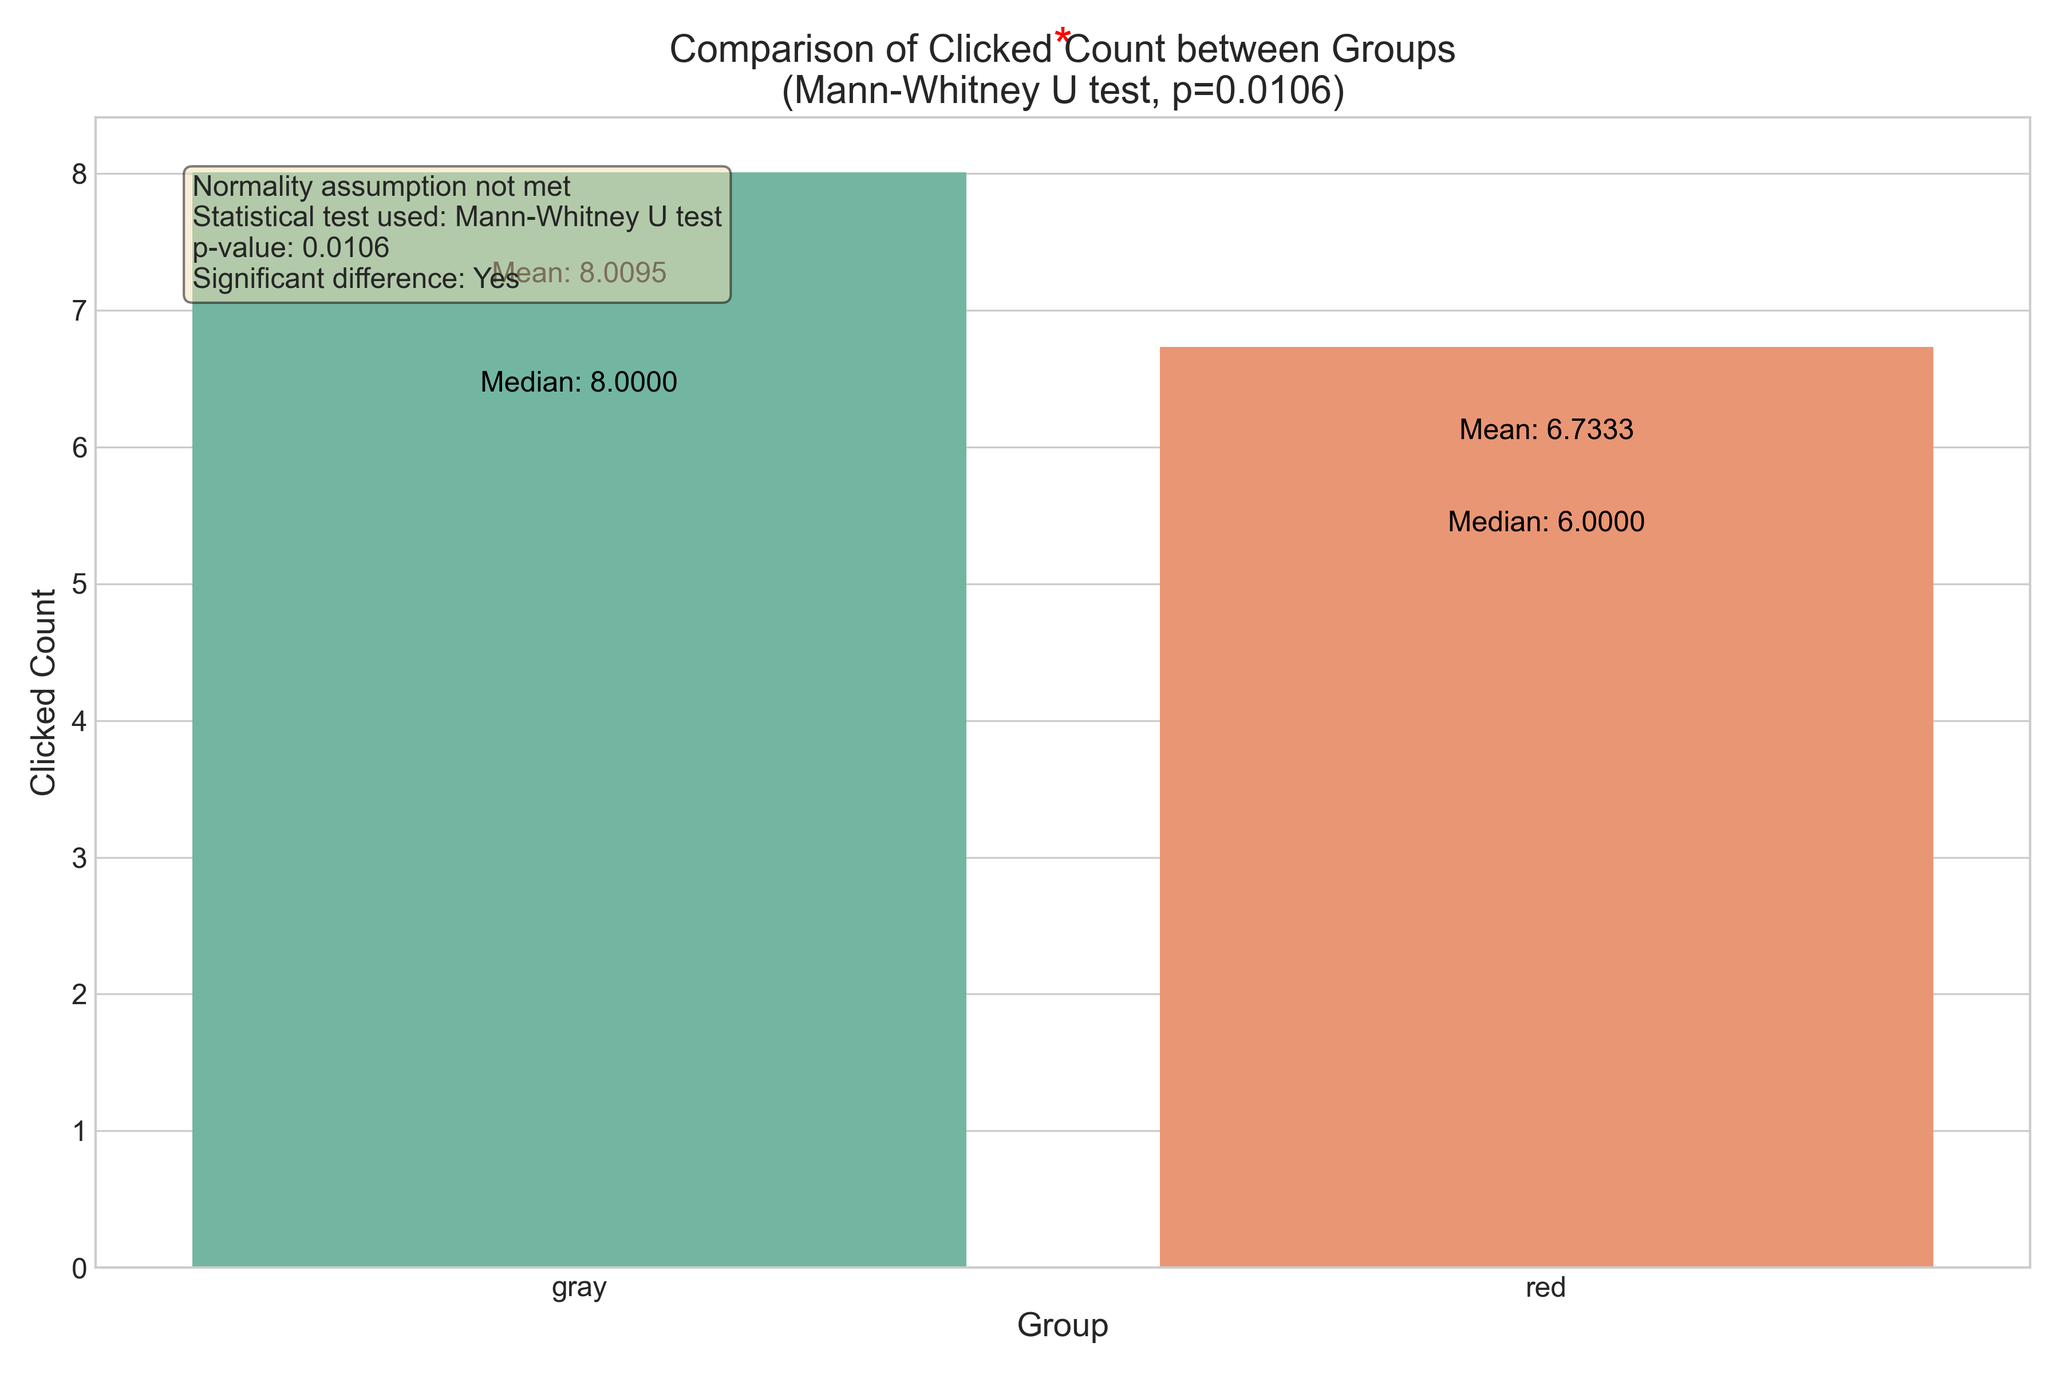
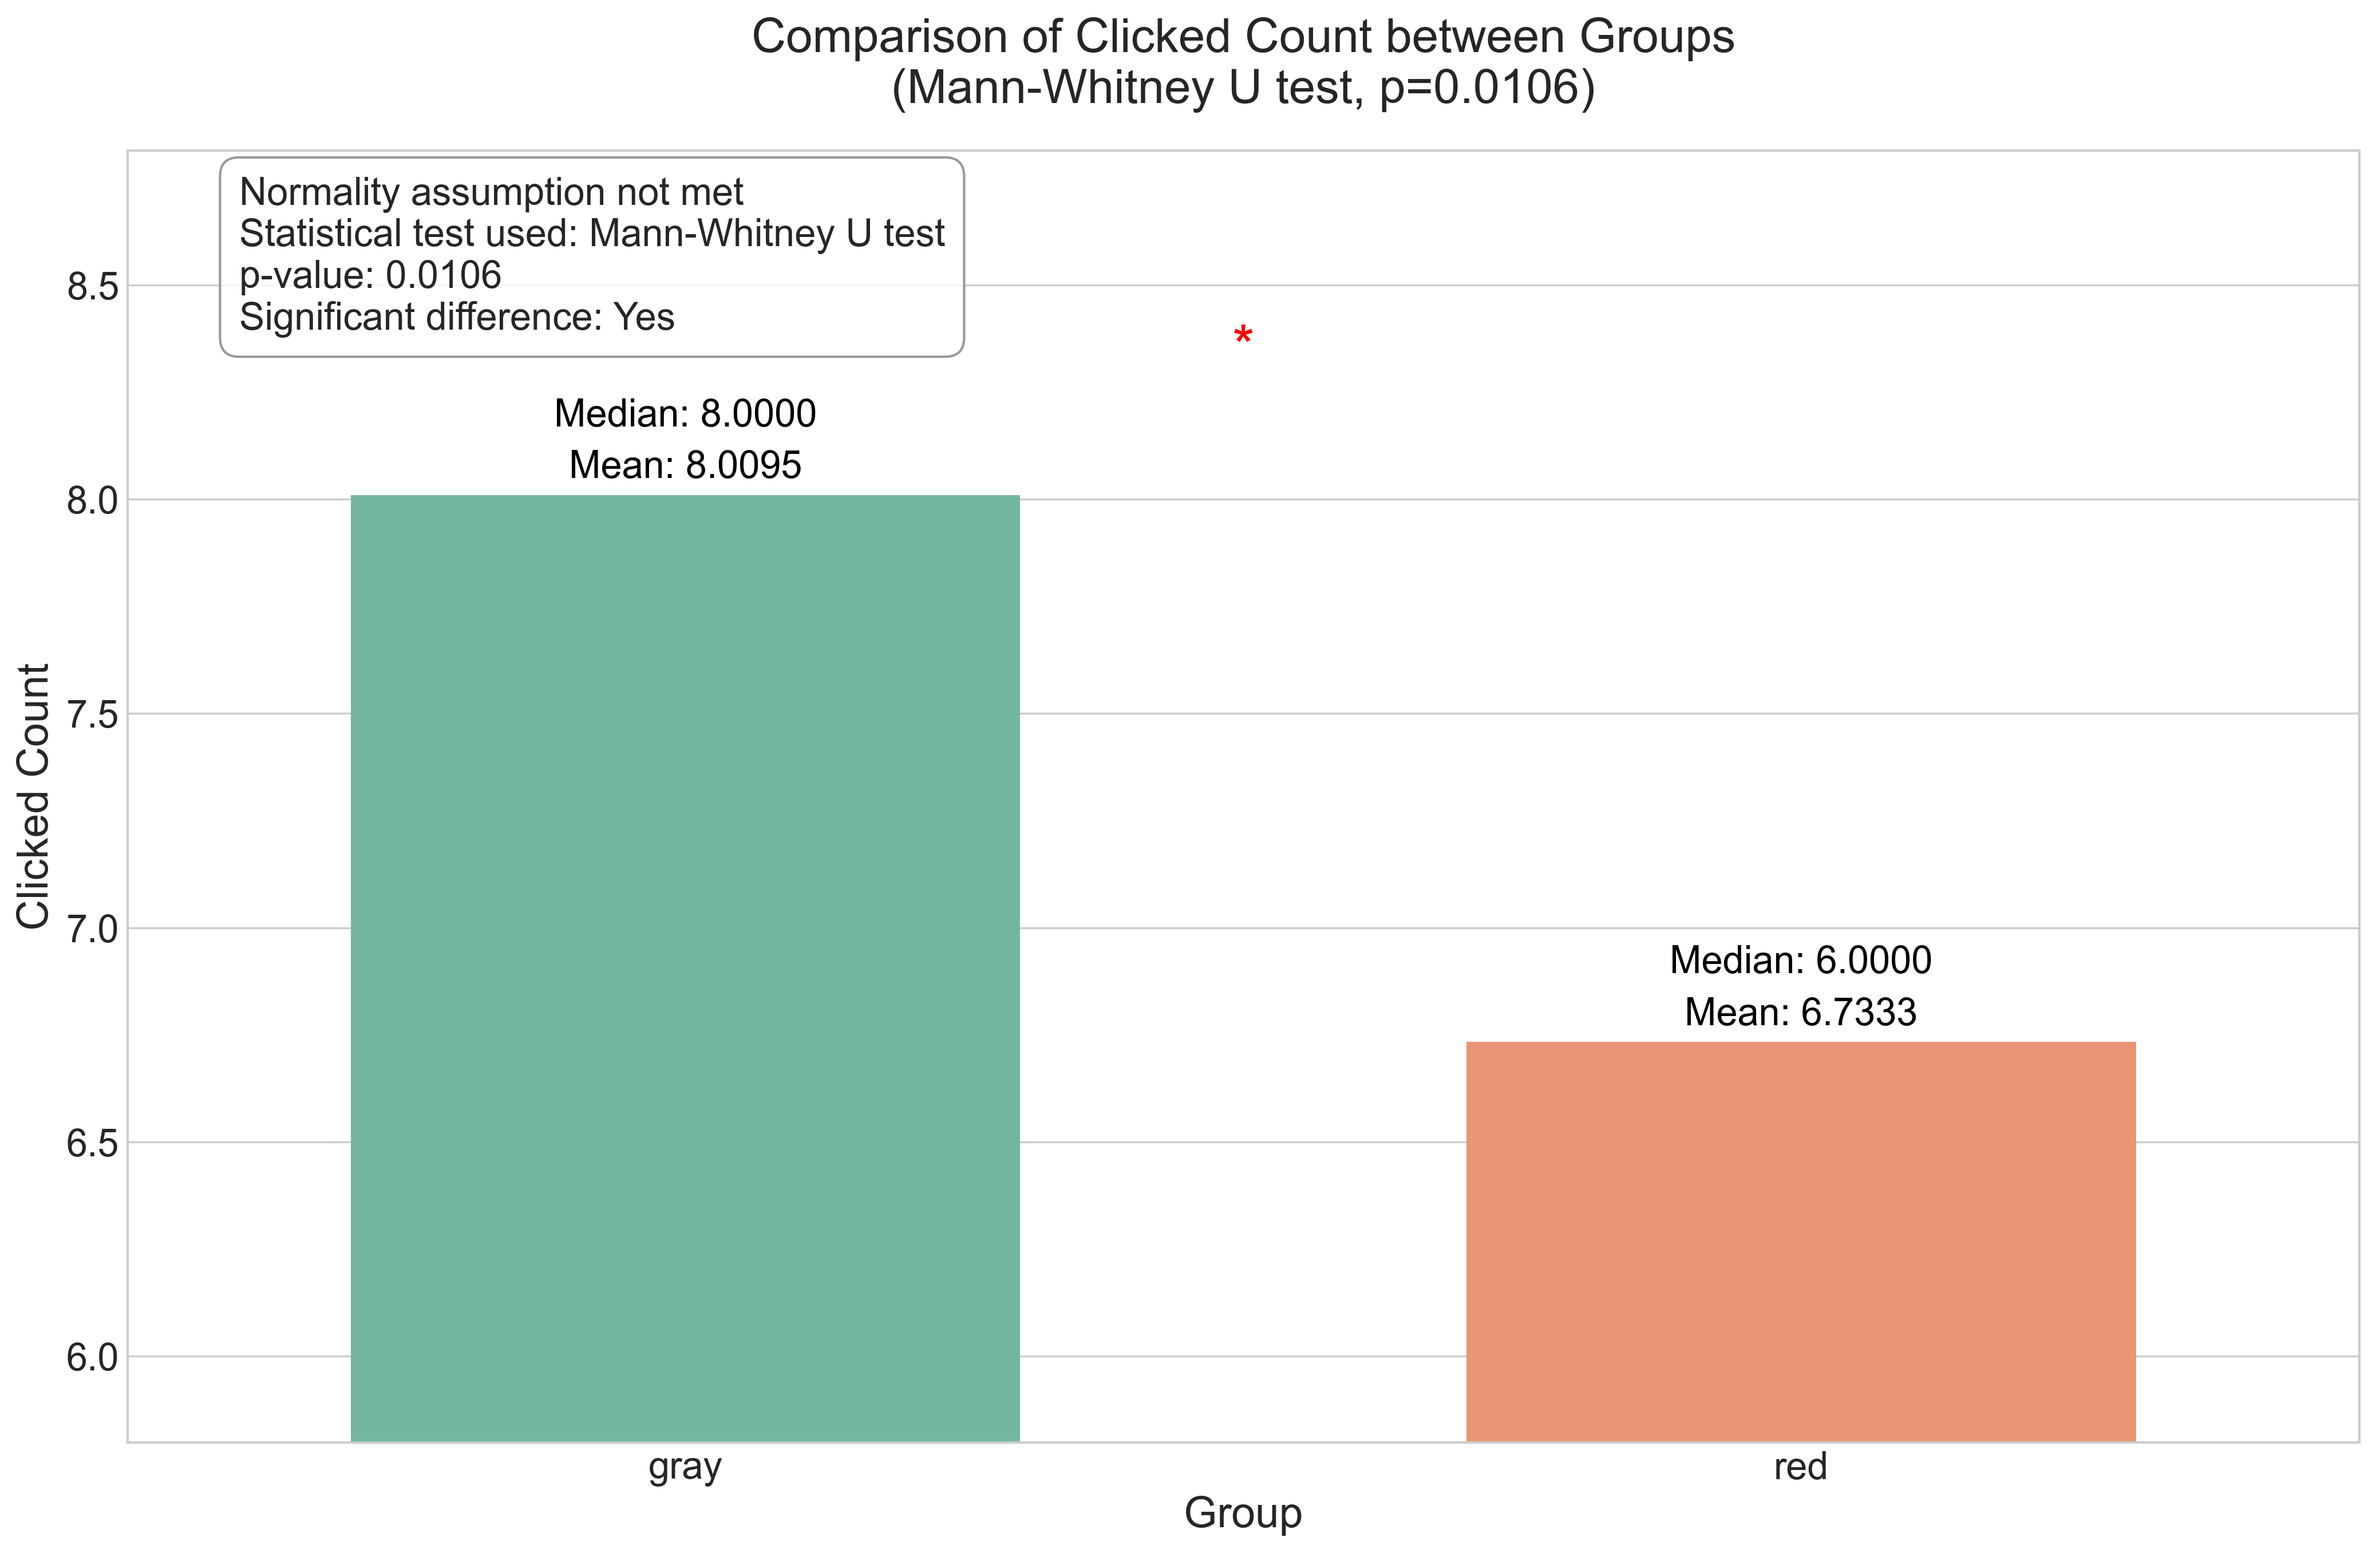
improve plots for data analysis

diff --git a/ab_test_analysis.py b/ab_test_analysis.py
@@ -54,8 +54,8 @@ def perform_statistical_test(data, group_col, metric_col):
 
 # Function to create comparison plot
 def create_comparison_plot(data, group_col, metric_col, metric_name):
-    # Create figure
-    fig, ax = plt.subplots(figsize=(12, 8))
+    # Create figure with increased height for better text spacing
+    fig, ax = plt.subplots(figsize=(14, 10))
     
     # Calculate means for plotting
     means = data.groupby(group_col)[metric_col].mean().reset_index()
@@ -69,10 +69,18 @@ def create_comparison_plot(data, group_col, metric_col, metric_name):
     # Perform statistical test
     p_val, test_name, is_normal = perform_statistical_test(data, group_col, metric_col)
     
-    # Create bar plot
-    sns.barplot(x=group_col, y=metric_col, data=means, ax=ax, palette="Set2")
+    # Create bar plot with increased width between bars
+    bars = sns.barplot(x=group_col, y=metric_col, data=means, ax=ax, palette="Set2", width=0.6)
     
-    # Add significance annotation
+    # Calculate y-axis limits for better spacing
+    y_max = max(means[metric_col].max(), medians[metric_col].max())
+    y_min = min(means[metric_col].min(), medians[metric_col].min())
+    y_range = y_max - y_min
+    
+    # Set y-axis limits with padding
+    ax.set_ylim(y_min - 0.1 * y_range, y_max + 0.4 * y_range)
+    
+    # Add significance annotation with adjusted position
     if p_val < 0.05:
         if p_val < 0.001:
             significance = "***"
@@ -81,21 +89,32 @@ def create_comparison_plot(data, group_col, metric_col, metric_name):
         else:
             significance = "*"
         
-        y_pos = max(means[metric_col]) * 1.1
+        y_pos = y_max + 0.15 * y_range
         ax.text(0.5, y_pos, significance, 
-                horizontalalignment='center', size='xx-large', color='red')
+                horizontalalignment='center', size=24, color='red')
     
-    # Add labels
-    plt.title(f'Comparison of {metric_name} between Groups\n({test_name}, p={p_val:.4f})', fontsize=16)
-    plt.xlabel('Group', fontsize=14)
-    plt.ylabel(metric_name, fontsize=14)
+    # Add labels with increased font sizes
+    plt.title(f'Comparison of {metric_name} between Groups\n({test_name}, p={p_val:.4f})', 
+             fontsize=20, pad=20)
+    plt.xlabel('Group', fontsize=18)
+    plt.ylabel(metric_name, fontsize=18)
     
-    # Add actual values on bars
+    # Increase tick label sizes
+    plt.xticks(fontsize=16)
+    plt.yticks(fontsize=16)
+    
+    # Add actual values on bars with adjusted positions
     for i, (mean_val, median_val) in enumerate(zip(means[metric_col], medians[metric_col])):
-        ax.text(i, mean_val * 0.9, f'Mean: {mean_val:.4f}', ha='center', fontsize=12, color='black')
-        ax.text(i, mean_val * 0.8, f'Median: {median_val:.4f}', ha='center', fontsize=12, color='black')
+        # Position mean and median labels with better spacing
+        mean_y = mean_val + 0.02 * y_range
+        median_y = mean_val + 0.08 * y_range
+        
+        ax.text(i, mean_y, f'Mean: {mean_val:.4f}', 
+                ha='center', fontsize=16, color='black')
+        ax.text(i, median_y, f'Median: {median_val:.4f}', 
+                ha='center', fontsize=16, color='black')
     
-    # Add detailed statistics as text
+    # Add detailed statistics as text with improved formatting and position
     textstr = '\n'.join([
         f"Normality assumption {'met' if is_normal else 'not met'}",
         f"Statistical test used: {test_name}",
@@ -103,20 +122,17 @@ def create_comparison_plot(data, group_col, metric_col, metric_name):
         f"Significant difference: {'Yes' if p_val < 0.05 else 'No'}"
     ])
     
-    # Add a box for the statistics
-    props = dict(boxstyle='round', facecolor='wheat', alpha=0.5)
-    ax.text(0.05, 0.95, textstr, transform=ax.transAxes, fontsize=12,
+    # Add a box for the statistics with adjusted position and style
+    props = dict(boxstyle='round,pad=0.5', facecolor='white', alpha=0.8, edgecolor='gray')
+    ax.text(0.05, 0.98, textstr, transform=ax.transAxes, fontsize=16,
             verticalalignment='top', bbox=props)
     
-    # Save figure to results directory
-    plt.tight_layout()
+    # Save figure to results directory with improved resolution
+    plt.tight_layout(rect=[0, 0.03, 1, 0.95])  # Adjust layout to prevent text cutoff
     save_path = os.path.join(results_dir, f'{metric_col}_comparison.png')
-    plt.savefig(save_path, dpi=300)
+    plt.savefig(save_path, dpi=300, bbox_inches='tight')
     
     print(f"Plot saved to: {save_path}")
-    
-    # Display the plot - comment this out if you don't want it to display
-    # plt.show()
     
     # Close the plot to free memory
     plt.close(fig)
